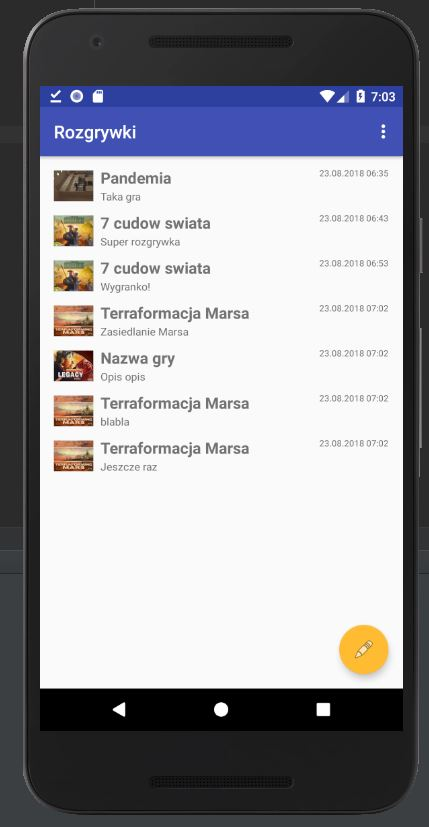
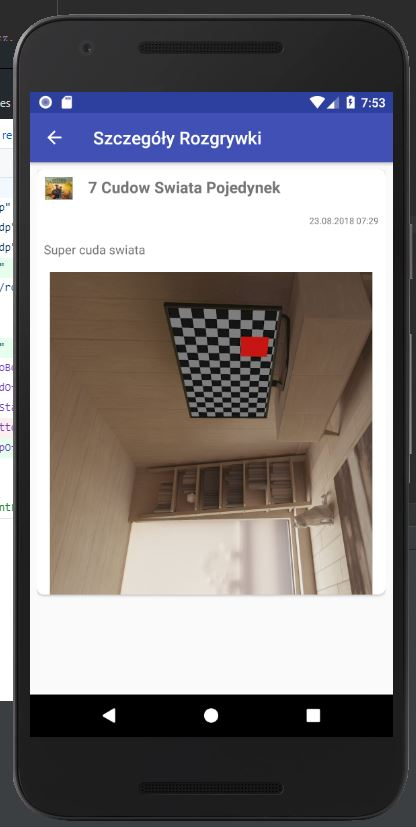
Szczegółowy widok Rozgrywki
Poprawienie widoku.
Małe poprawki w kodzie i layoucie.

diff --git a/app/src/main/java/george87pl/boardgames/SzczegolyRozgrywki.java b/app/src/main/java/george87pl/boardgames/SzczegolyRozgrywki.java
@@ -1,13 +1,27 @@
 package george87pl.boardgames;
 
+import android.content.Intent;
+import android.net.Uri;
 import android.os.Bundle;
 import android.support.design.widget.FloatingActionButton;
 import android.support.design.widget.Snackbar;
 import android.support.v7.app.AppCompatActivity;
 import android.support.v7.widget.Toolbar;
+import android.util.Log;
 import android.view.View;
+import android.widget.ImageView;
+import android.widget.TextView;
+
+import java.io.File;
 
 public class SzczegolyRozgrywki extends AppCompatActivity {
+    private static final String TAG = "SzczegolyRozgrywki";
+
+    TextView nazwaGry;
+    ImageView zdjecieGry;
+    TextView dataRozgrywki;
+    TextView opisRozgrywki;
+    ImageView zdjecieRozgrywki;
 
     @Override
     protected void onCreate(Bundle savedInstanceState) {
@@ -15,16 +29,37 @@ public class SzczegolyRozgrywki extends AppCompatActivity {
         setContentView(R.layout.activity_szczegoly_rozgrywki);
         Toolbar toolbar = (Toolbar) findViewById(R.id.toolbar);
         setSupportActionBar(toolbar);
-
-        FloatingActionButton fab = (FloatingActionButton) findViewById(R.id.fab);
-        fab.setOnClickListener(new View.OnClickListener() {
-            @Override
-            public void onClick(View view) {
-                Snackbar.make(view, "Replace with your own action", Snackbar.LENGTH_LONG)
-                        .setAction("Action", null).show();
-            }
-        });
         getSupportActionBar().setDisplayHomeAsUpEnabled(true);
+
+        nazwaGry = findViewById(R.id.nazwa_gry);
+        zdjecieGry = findViewById(R.id.zdjecie_gry);
+        dataRozgrywki = findViewById(R.id.data);
+        opisRozgrywki = findViewById(R.id.opis);
+        zdjecieRozgrywki = findViewById(R.id.zdjecie_rozgrywka);
+
+        Intent intentRozgrywka = getIntent();
+        Rozgrywka rozgrywka = (Rozgrywka) intentRozgrywka.getSerializableExtra("rozgrywka");
+
+        Log.d(TAG, "ROZGRYWKA SZCZEGOLY: " +rozgrywka.getData());
+
+        nazwaGry.setText(rozgrywka.getNazwaGry());
+        if(rozgrywka.getZdjecieGry() != null) {
+            String mCurrentPhotoPath = rozgrywka.getZdjecieGry();
+            File f = new File(mCurrentPhotoPath);
+            Uri contentUri = Uri.fromFile(f);
+            zdjecieGry.setImageURI(contentUri);
+        }
+
+        dataRozgrywki.setText(rozgrywka.getData());
+        opisRozgrywki.setText(rozgrywka.getOpis());
+
+        if(rozgrywka.getZdjecieRozgrywki() != null) {
+            String mCurrentPhotoPath = rozgrywka.getZdjecieRozgrywki();
+            File f = new File(mCurrentPhotoPath);
+            Uri contentUri = Uri.fromFile(f);
+            zdjecieRozgrywki.setImageURI(contentUri);
+        }
+
     }
 
 }

diff --git a/app/src/main/java/george87pl/boardgames/MainActivity.java b/app/src/main/java/george87pl/boardgames/MainActivity.java
@@ -81,6 +81,8 @@ public class MainActivity extends AppCompatActivity implements RecyclerItemClick
                 opisRozgrywki = cursor.getString(cursor.getColumnIndex(WidokContract.Kolumny.WIDOK_OPIS));
                 zdjecieRozgrywki = cursor.getString(cursor.getColumnIndex(WidokContract.Kolumny.WIDOK_ROZGRYWKA_ZDJECIE));
 
+                Log.d(TAG, "onCreate: zdjecieRozgrywki:" +zdjecieRozgrywki);
+
                 listaRozgrywek.add(new Rozgrywka(idGry, zdjecieGry, nazwaGry, dataRozgrywki, opisRozgrywki, zdjecieRozgrywki));
 
             }
@@ -124,7 +126,9 @@ public class MainActivity extends AppCompatActivity implements RecyclerItemClick
     @Override
     public void onItemClick(View view, int pozycja) {
         Log.d(TAG, "onItemClick: start");
-        Toast.makeText(MainActivity.this, "Normal tap on position " +pozycja , Toast.LENGTH_SHORT).show();
+        Intent intent = new Intent(this, SzczegolyRozgrywki.class);
+        intent.putExtra("rozgrywka", listaRozgrywek.get(pozycja));
+        startActivity(intent);
     }
 
     @Override

diff --git a/app/src/main/java/george87pl/boardgames/DodajRozgrywke.java b/app/src/main/java/george87pl/boardgames/DodajRozgrywke.java
@@ -105,10 +105,11 @@ public class DodajRozgrywke extends AppCompatActivity {
             values.put(RozgrywkaContract.Kolumny.ROZGRYWKA_GRA, gra.getidGry());
             values.put(RozgrywkaContract.Kolumny.ROZGRYWKA_DATA, format.format(calendar.getTime()));
             values.put(RozgrywkaContract.Kolumny.ROZGRYWKA_OPIS, mOpisGry.getText().toString());
-            contentResolver.insert(RozgrywkaContract.CONTENT_URI, values);
             if(czyByloZdjecie) {
                 values.put(RozgrywkaContract.Kolumny.ROZGRYWKA_ZDJECIE, mCurrentPhotoPath);
             }
+            contentResolver.insert(RozgrywkaContract.CONTENT_URI, values);
+
 
             Intent intent = new Intent(DodajRozgrywke.this, MainActivity.class);
             startActivity(intent);

diff --git a/app/src/main/java/george87pl/boardgames/BazaDanych.java b/app/src/main/java/george87pl/boardgames/BazaDanych.java
@@ -66,6 +66,7 @@ class BazaDanych extends SQLiteOpenHelper {
                 + RozgrywkaContract.TABELA_NAZWA + "." + RozgrywkaContract.Kolumny.ROZGRYWKA_DATA + ", "
                 + RozgrywkaContract.TABELA_NAZWA + "." + RozgrywkaContract.Kolumny.ROZGRYWKA_OPIS + ", "
                 + RozgrywkaContract.TABELA_NAZWA + "." + RozgrywkaContract.Kolumny.ROZGRYWKA_ZDJECIE
+                + " AS ZdjecieRozgrywki"
                 + " FROM " + RozgrywkaContract.TABELA_NAZWA
                 + " INNER JOIN " + GraContract.TABELA_NAZWA
                 +  " ON " + RozgrywkaContract.TABELA_NAZWA + "." + RozgrywkaContract.Kolumny.ROZGRYWKA_GRA + " = " + GraContract.TABELA_NAZWA + "." + GraContract.Kolumny.GRA_ID

diff --git a/app/src/main/java/george87pl/boardgames/WidokContract.java b/app/src/main/java/george87pl/boardgames/WidokContract.java
@@ -18,7 +18,7 @@ public class WidokContract {
         public static final String WIDOK_GRA_ZDJECIE = GraContract.Kolumny.GRA_ZDJECIE;
         public static final String WIDOK_DATA = RozgrywkaContract.Kolumny.ROZGRYWKA_DATA;
         public static final String WIDOK_OPIS = RozgrywkaContract.Kolumny.ROZGRYWKA_OPIS;
-        public static final String WIDOK_ROZGRYWKA_ZDJECIE = RozgrywkaContract.Kolumny.ROZGRYWKA_ZDJECIE;
+        public static final String WIDOK_ROZGRYWKA_ZDJECIE = "ZdjecieRozgrywki";
 
         private Kolumny() {
             //prywatny konstruktor aby zapobiec stworzeniu instancji

diff --git a/app/src/main/java/george87pl/boardgames/RozgrywkaRecyclerViewAdapter.java b/app/src/main/java/george87pl/boardgames/RozgrywkaRecyclerViewAdapter.java
@@ -42,8 +42,8 @@ class RozgrywkaRecyclerViewAdapter extends RecyclerView.Adapter<RozgrywkaRecycle
 
         Rozgrywka rozgrywkaItem = mRozgrywkaList.get(position);
 
-        if(rozgrywkaItem.getZdjecieRozgrywki() != null) {
-            String mCurrentPhotoPath = rozgrywkaItem.getZdjecieRozgrywki();
+        if(rozgrywkaItem.getZdjecieGry() != null) {
+            String mCurrentPhotoPath = rozgrywkaItem.getZdjecieGry();
             File f = new File(mCurrentPhotoPath);
             Uri contentUri = Uri.fromFile(f);
             holder.zdjecie.setImageURI(contentUri);

diff --git a/app/src/main/java/george87pl/boardgames/Rozgrywka.java b/app/src/main/java/george87pl/boardgames/Rozgrywka.java
@@ -1,9 +1,11 @@
 package george87pl.boardgames;
 
-import android.net.Uri;
 
-class Rozgrywka {
+import java.io.Serializable;
 
+class Rozgrywka implements Serializable {
+
+    private static final long serialVersionUID = 1L;
     private int mId;
     private String mZdjecieGry;
     private String mNazwaGry;
